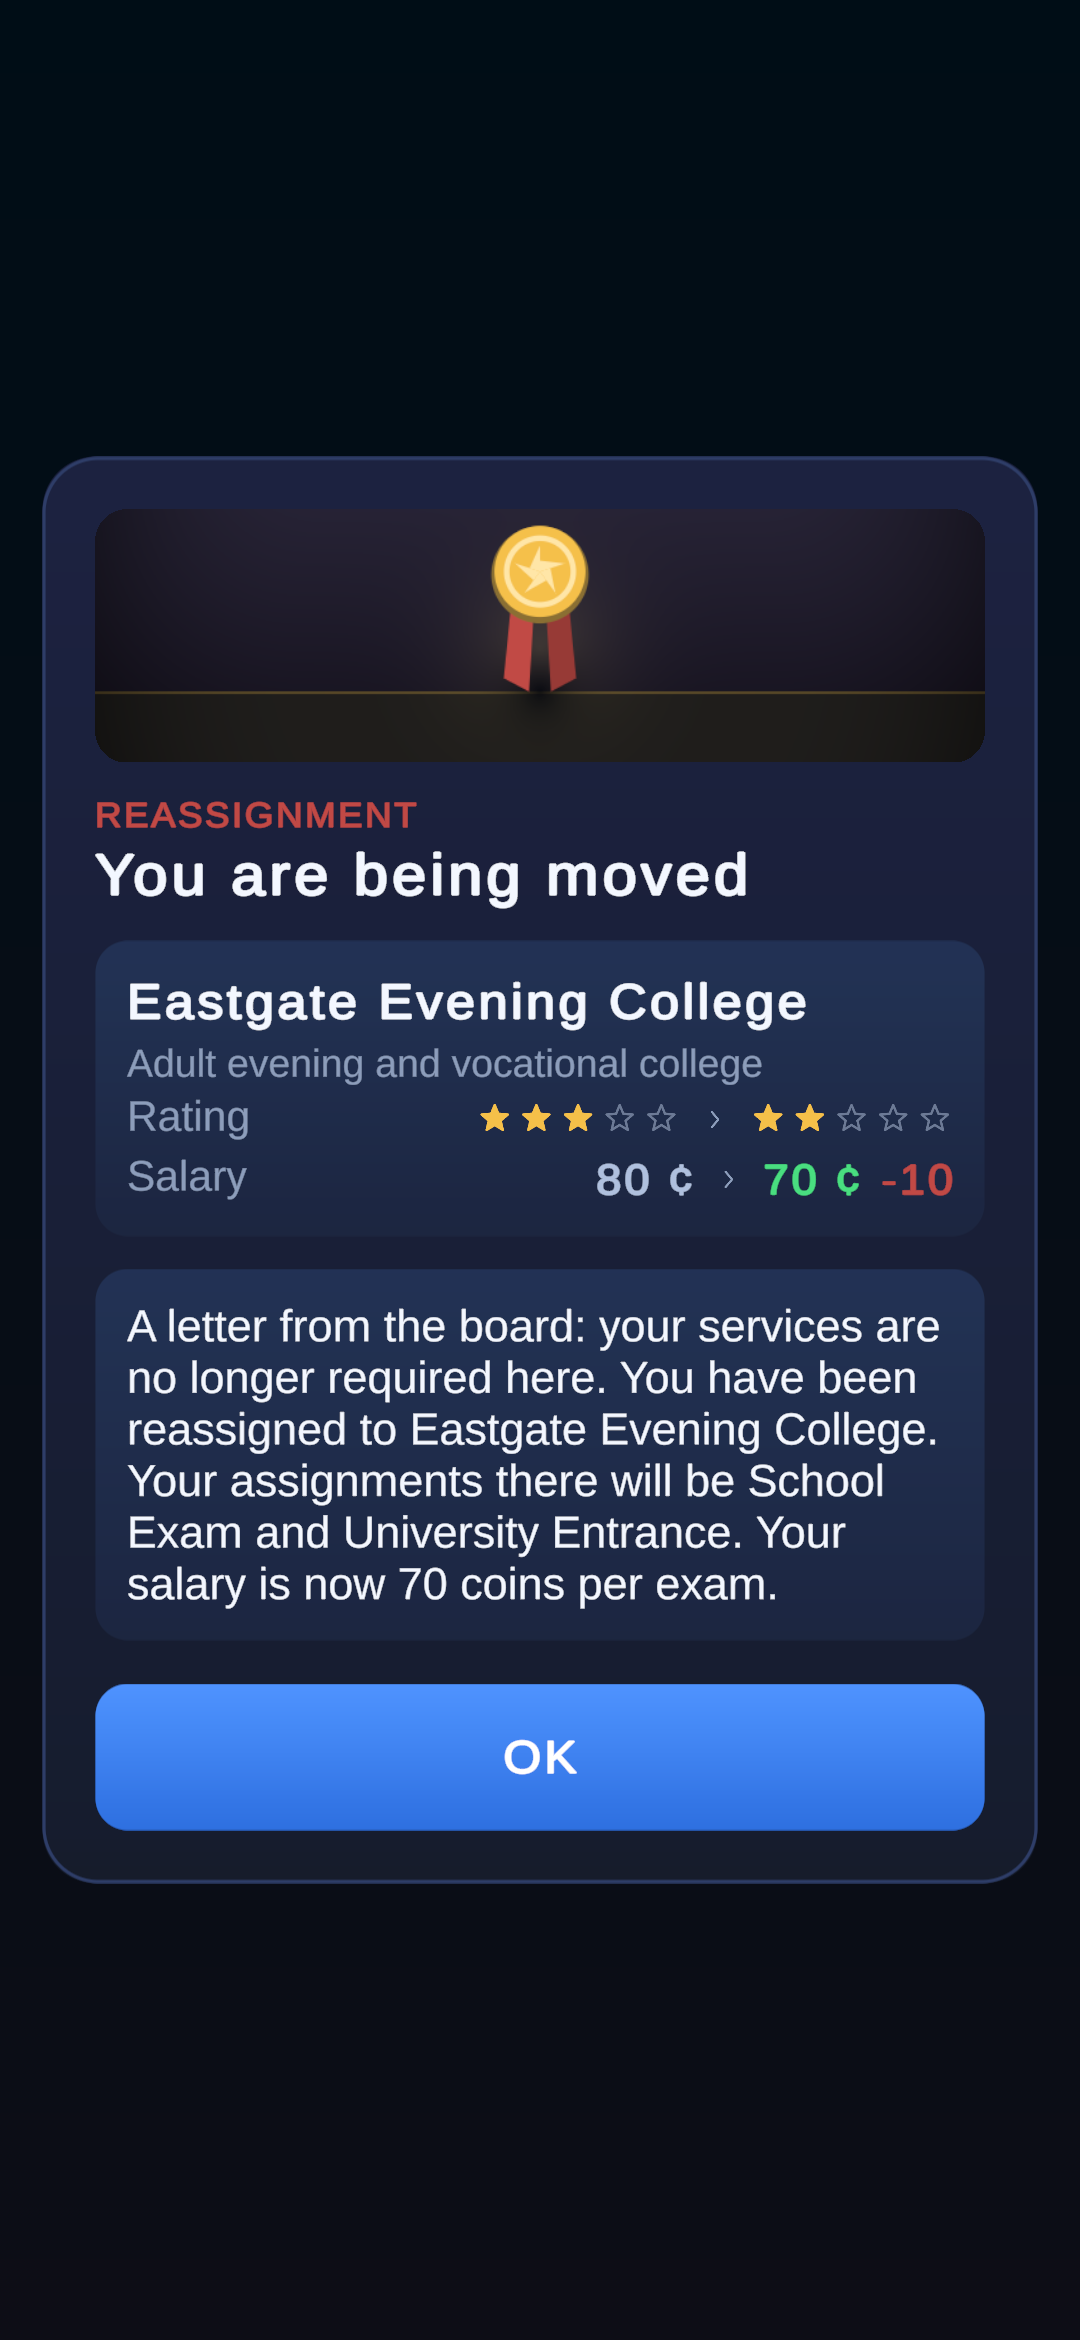
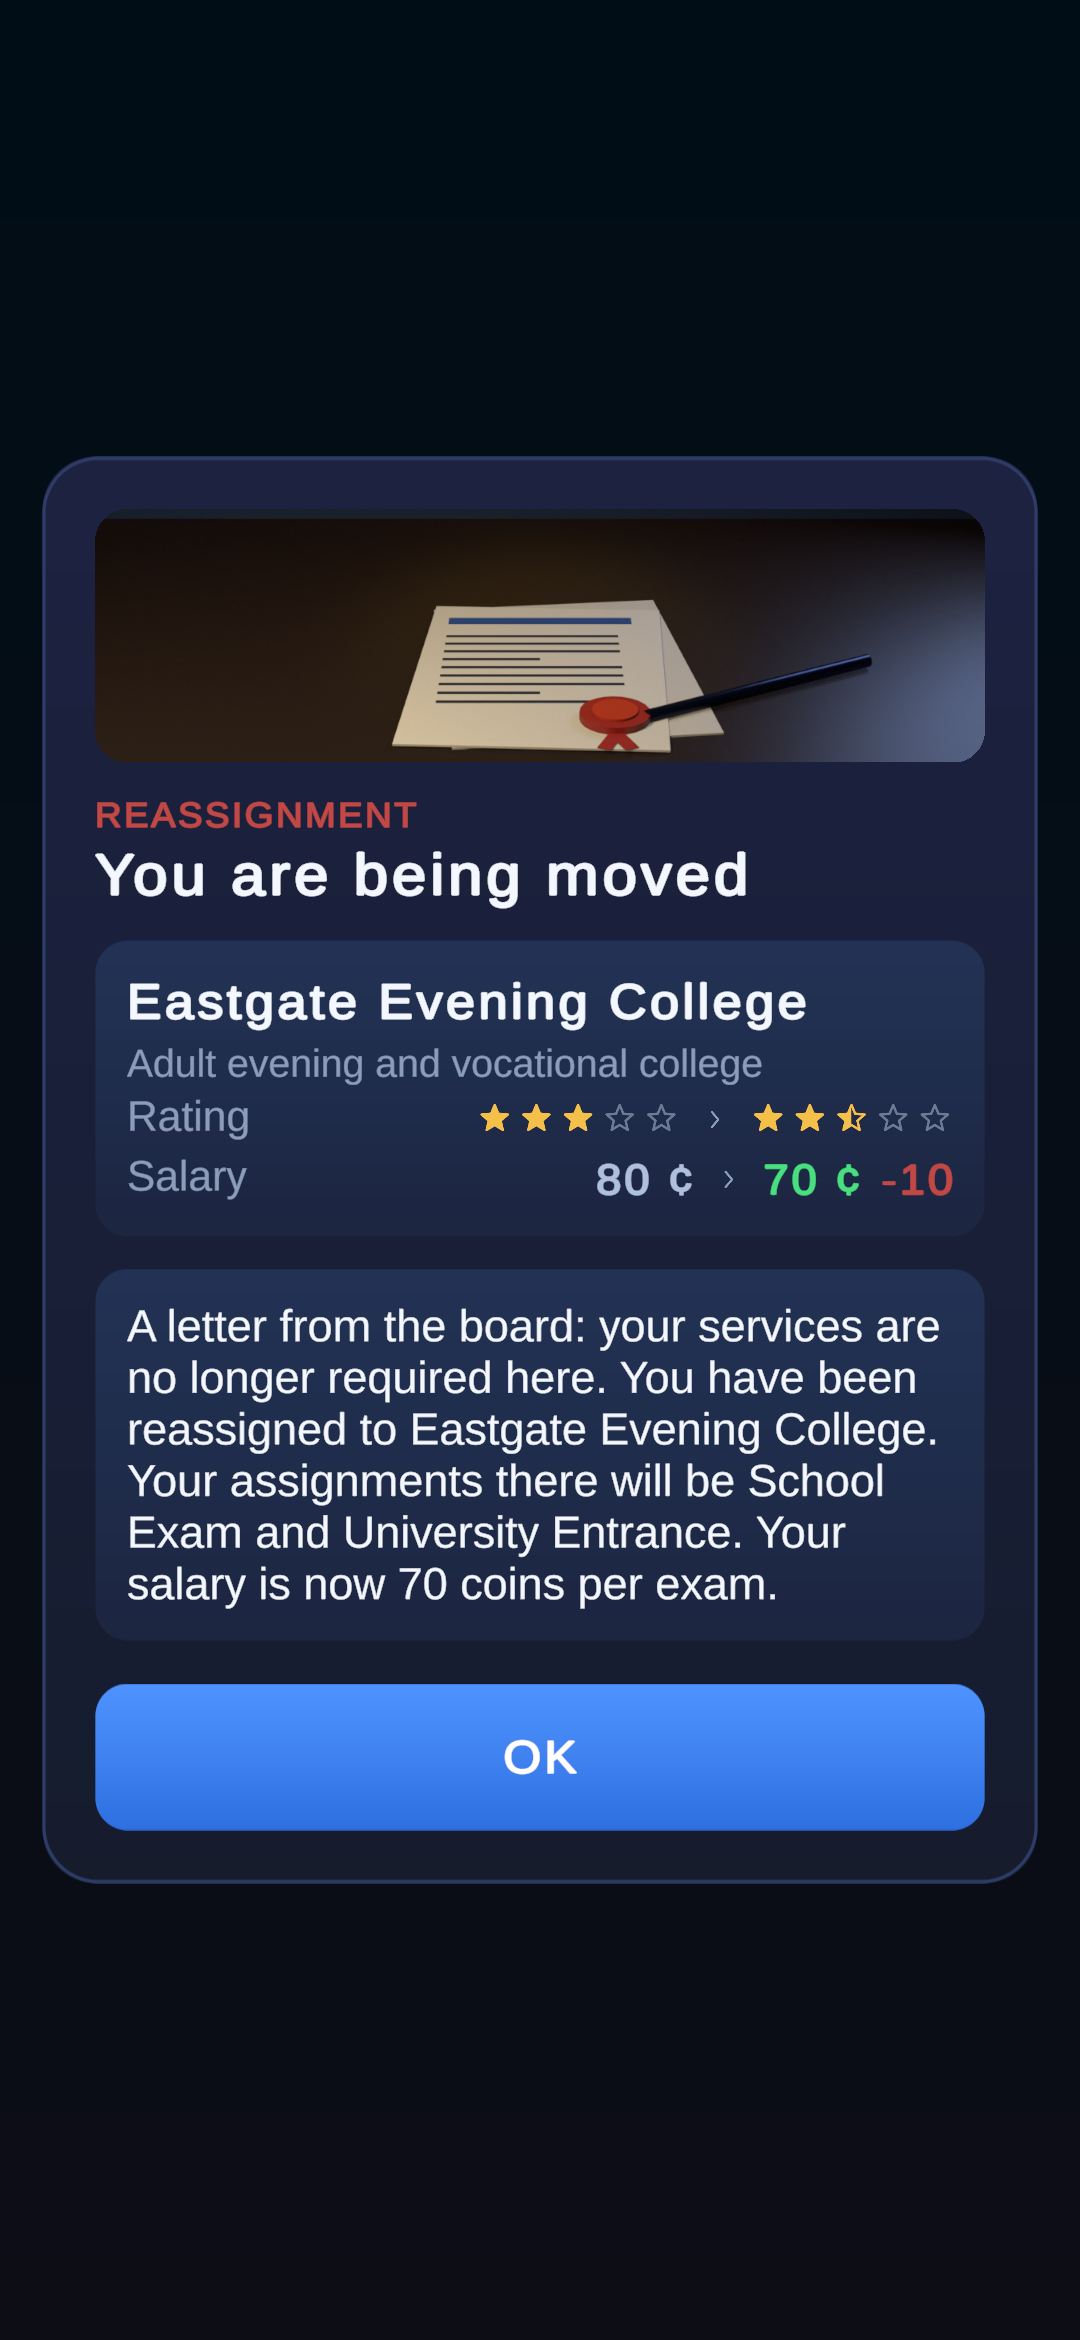
schools: Eastgate rated 2.5 stars, the step between Riverside and City High

Changed region(s): [[0.0917, 0.2184, 0.9167, 0.3432], [0.7639, 0.4679, 0.7944, 0.4991]]

diff --git a/schools/index.html b/schools/index.html
@@ -4,7 +4,7 @@
 <meta charset="utf-8">
 <meta name="viewport" content="width=device-width,initial-scale=1">
 <title>Schools and Offers</title>
-<meta name="description" content="Eight schools with fixed star ratings, offers that compare rating and salary, and the lower-rated school that pays more, in Exam Supervisor Simulator.">
+<meta name="description" content="Eight schools with fixed star ratings in half-star steps, offers that compare rating and salary, and the lower-rated school that pays more, in Exam Supervisor Simulator.">
 <link rel="preconnect" href="https://fonts.googleapis.com">
 <link rel="preconnect" href="https://fonts.gstatic.com" crossorigin>
 <link rel="stylesheet" href="https://fonts.googleapis.com/css2?family=Bricolage+Grotesque:opsz,wght@12..96,500;12..96,700&family=Source+Sans+3:wght@400;600&family=JetBrains+Mono:wght@500&display=swap">
@@ -80,7 +80,8 @@ tr.hi td { background: var(--accent-soft); }
     <span class="eyebrow">Exam Supervisor Simulator · M129</span>
     <h1>Schools and Offers</h1>
     <p class="lede">A career now runs through eight schools instead of three postings. Each school has a fixed star rating
-      that the player can see. A move between schools arrives as an offer, and the offer compares the school you hold
+      that the player can see, in half-star steps. The normal climb is Maple → Riverside → Eastgate → City High →
+      Kingsley. A move between schools arrives as an offer, and the offer compares the school you hold
       with the one offered, on both rating and salary. Usually one school writes. Sometimes two write at once, and then
       a better-rated school competes with a lower-rated one that pays more. The screenshots are from Play mode at a
       phone's portrait size (1080 × 2340).</p>
@@ -91,7 +92,8 @@ tr.hi td { background: var(--accent-soft); }
       <h2>The schools</h2>
       <p class="muted">A career starts at Maple at standing 40. "Offered at" is the standing a school asks for. "Lost
         below" is the standing under which you are reassigned. The two numbers are kept apart so that a career does not
-        bounce between schools. Brightpath, highlighted, is the lower-rated school that pays more.</p>
+        bounce between schools. Brightpath, highlighted, is the lower-rated school that pays more. Eastgate is rated two and a half stars: above
+        Riverside, below City High, and open at 47, before City High's 52.</p>
     </div>
     <div class="table-wrap">
       <table>
@@ -99,7 +101,7 @@ tr.hi td { background: var(--accent-soft); }
         <tbody>
           <tr><td>Maple Elementary School</td><td>Elementary</td><td class="stars">★☆☆☆☆</td><td class="num">50</td><td class="num">start</td><td>final warning, then dismissal</td></tr>
           <tr><td>Riverside Middle School</td><td>Middle school</td><td class="stars">★★☆☆☆</td><td class="num">60</td><td class="num">44</td><td class="num">34</td></tr>
-          <tr><td>Eastgate Evening College</td><td>Adult evening and vocational</td><td class="stars">★★☆☆☆</td><td class="num">70</td><td class="num">47</td><td class="num">37</td></tr>
+          <tr><td>Eastgate Evening College</td><td>Adult evening and vocational</td><td class="stars">★★½☆☆</td><td class="num">70</td><td class="num">47</td><td class="num">37</td></tr>
           <tr><td>City High School</td><td>High school</td><td class="stars">★★★☆☆</td><td class="num">80</td><td class="num">52</td><td class="num">40</td></tr>
           <tr class="hi"><td>Brightpath Prep Centre</td><td>Private exam-prep centre</td><td class="stars">★★☆☆☆</td><td class="num">120</td><td class="num">50</td><td class="num">40</td></tr>
           <tr><td>Kingsley Academy</td><td>Selective academy</td><td class="stars">★★★★☆</td><td class="num">140</td><td class="num">60</td><td class="num">48</td></tr>
@@ -128,7 +130,7 @@ tr.hi td { background: var(--accent-soft); }
             taking one can never leave the other open.</li>
           <li><b>The second school is rated lower and pays more.</b> It appears beside a promotion only when such a school
             is open to the player: City High (better rated) against Brightpath (better paid).</li>
-          <li><b>How often:</b> about one card in fourteen in a careful career.</li>
+          <li><b>How often:</b> about one card in seventeen in a careful career.</li>
           <li><b>The cost of the money is printed on the card,</b> not hidden in the rules.</li>
           <li><b>Without a banner.</b> The comparison stands in for the picture, so the three answers fit on the
             screen.</li>
@@ -136,6 +138,20 @@ tr.hi td { background: var(--accent-soft); }
       </div>
     </article>
 
+    <article class="moment">
+      <div class="shot"><img src="img/02b-eastgate-promotion.png" alt="Promotion card: A move up; Eastgate Evening College, rating 2 to 2.5 stars, salary 60 to 70 (+10); buttons Join Eastgate Evening College, Stay where you are" loading="lazy"></div>
+      <div class="text">
+        <h3>The half star: Riverside to Eastgate</h3>
+        <ul>
+          <li><b>Eastgate is a real rung.</b> At two and a half stars it is rated above Riverside, so a supervisor at
+            Riverside with standing 47 to 51 is offered it as a promotion. From Eastgate, City High is the next offer.</li>
+          <li><b>The half star is drawn from the same icon family:</b> the star outline, solid on its left half. Text
+            reads it as "2.5 of 5 stars".</li>
+          <li><b>Every careful career now passes through it:</b> 24 of 24, against 0 of 24 when it was rated two stars
+            like Riverside.</li>
+        </ul>
+      </div>
+    </article>
     <article class="moment">
       <div class="shot"><img src="img/03-money-offer.png" alt="Single offer card: More money elsewhere; Brightpath Prep Centre, rating 3 to 2 stars, salary 80 to 120 (+40); buttons Join Brightpath Prep Centre, Stay where you are" loading="lazy"></div>
       <div class="text">
@@ -152,7 +168,7 @@ tr.hi td { background: var(--accent-soft); }
     <div class="trio">
       <figure><img src="img/02-promotion.png" alt="Promotion card: Riverside Middle School, 1 to 2 stars, 50 to 60" loading="lazy"><figcaption>A move up: Maple to Riverside, one star to two.</figcaption></figure>
       <figure><img src="img/04-top-promotion.png" alt="Promotion card: National Examination Centre, 4 to 5 stars, 160 to 190" loading="lazy"><figcaption>The longest name, at the top: it wraps instead of being cut.</figcaption></figure>
-      <figure><img src="img/05-demotion.png" alt="Reassignment card: Eastgate Evening College, 3 to 2 stars, 80 to 70 (-10)" loading="lazy"><figcaption>A demotion uses the same comparison. The move goes to the best lower-rated school the standing can still hold.</figcaption></figure>
+      <figure><img src="img/05-demotion.png" alt="Reassignment card: Eastgate Evening College, 3 to 2.5 stars, 80 to 70 (-10)" loading="lazy"><figcaption>A demotion uses the same comparison. The move goes to the best lower-rated school the standing can still hold.</figcaption></figure>
     </div>
   </section>
 
@@ -165,12 +181,13 @@ tr.hi td { background: var(--accent-soft); }
     </div>
     <div class="trio">
       <figure><img src="img/06-hub-maple.png" alt="Hub hero: Assistant Supervisor, Maple Elementary School, 1 star, Elementary school" loading="lazy"><figcaption>Maple, where careers begin.</figcaption></figure>
+      <figure><img src="img/06-hub-vocational.png" alt="Hub hero: Assistant Supervisor, Eastgate Evening College, 2.5 stars, Adult evening and vocational college" loading="lazy"><figcaption>Eastgate, with its half star.</figcaption></figure>
       <figure><img src="img/06-hub-brightpath.png" alt="Hub hero: Supervisor, Brightpath Prep Centre, 2 stars, Private exam-prep centre" loading="lazy"><figcaption>Brightpath.</figcaption></figure>
       <figure><img src="img/06-hub-national.png" alt="Hub hero: Senior Supervisor, National Examination Centre, 5 stars" loading="lazy"><figcaption>National Examination Centre: the longest name fits on one line.</figcaption></figure>
     </div>
     <div class="trio">
-      <figure><img src="img/07-career-top.png" alt="Career tab: Supervisor, City High School, 3 of 5 stars; progression ring, 5 more to reach Kingsley Academy, 4 stars" loading="lazy"><figcaption>Career tab: your school's rating, and the next school's.</figcaption></figure>
-      <figure><img src="img/08-career-schools.png" alt="Career tab Schools card: every school with stars, standing required and salary; City High marked You are here" loading="lazy"><figcaption>Every school with its stars, the standing it asks for and its pay. Your school is marked.</figcaption></figure>
+      <figure><img src="img/07-career-top.png" alt="Career tab: Assistant Supervisor, Eastgate Evening College, 2.5 of 5 stars; progression ring, 3 more to reach City High School, 3 stars" loading="lazy"><figcaption>Career tab at Eastgate: your school's rating, half star included, and the next school's.</figcaption></figure>
+      <figure><img src="img/08-career-schools.png" alt="Career tab Schools card: every school with stars, standing required and salary; Eastgate, two and a half stars, marked You are here" loading="lazy"><figcaption>Every school with its stars, the standing it asks for and its pay. Your school is marked.</figcaption></figure>
     </div>
   </section>
 
@@ -182,21 +199,22 @@ tr.hi td { background: var(--accent-soft); }
         whenever it is offered, and an error-prone player.</p>
     </div>
     <div class="cards">
-      <div class="card"><span class="big">0.94</span><p>The correlation between standing and school rating within a career.
+      <div class="card"><span class="big">0.93</span><p>The correlation between standing and school rating within a career.
         A better-regarded supervisor works at a better-rated school.</p></div>
-      <div class="card"><span class="big">3.8 vs 4.0</span><p>The mean rating at exam 15 for the player who took the money,
+      <div class="card"><span class="big">2.9 vs 3.4</span><p>The mean rating at exam 10 for the player who took the money,
         against the one who took the better school. Taking the money slows the climb.</p></div>
-      <div class="card"><span class="big">7276 vs 7258</span><p>Coins after 50 exams for those two players. They end level:
+      <div class="card"><span class="big">6628 vs 6628</span><p>Coins after 50 exams for those two players. They end level:
         the money pays early, the slower climb gives it back, and neither choice dominates.</p></div>
-      <div class="card"><span class="big">24 / 24</span><p>Error-prone careers dismissed. That is the same as at M126 from the
-        old start: the bottom school keeps the final warning and dismissal unchanged.</p></div>
+      <div class="card"><span class="big">24 / 24</span><p>Careful careers that work at Eastgate on the way up, about two exams
+        each. Before the half star it was 0 / 24. City High (exam 6) and Kingsley (exam 11) are reached on the same exams
+        as before, and coins are level (6606 → 6628).</p></div>
     </div>
     <div class="table-wrap">
       <table>
         <thead><tr><th>Careful player, takes the better school</th><th>Exam 5</th><th>10</th><th>15</th><th>20</th><th>30</th></tr></thead>
         <tbody>
-          <tr><td>Median standing</td><td class="num">50</td><td class="num">59</td><td class="num">68</td><td class="num">78</td><td class="num">99</td></tr>
-          <tr><td>Mean school rating</td><td class="num">2.2</td><td class="num">3.4</td><td class="num">4.0</td><td class="num">4.1</td><td class="num">4.9</td></tr>
+          <tr><td>Median standing</td><td class="num">50</td><td class="num">58</td><td class="num">66</td><td class="num">74</td><td class="num">92</td></tr>
+          <tr><td>Mean school rating</td><td class="num">2.5</td><td class="num">3.4</td><td class="num">4.0</td><td class="num">4.1</td><td class="num">4.7</td></tr>
         </tbody>
       </table>
     </div>
@@ -209,11 +227,14 @@ tr.hi td { background: var(--accent-soft); }
         not reinstalled, because the phone is shared with other sessions.</li>
       <li><b>The hub's banner is crowded.</b> With the star line added, the rank sits lower and overlaps the steps of the
         colonnade building. It is still readable, but the art might want more room.</li>
-      <li><b>Eastgate Evening College is rarely visited by a careful player.</b> Riverside's 44 leads straight on to City
-        High's 52. Eastgate is mostly a place a reassignment lands, or where an older save that was at the Vocational
-        Annex now loads.</li>
-      <li><b>The error-prone player is still always dismissed</b> (M126). That is unchanged and remains its own open
-        question.</li>
+      <li><b>The top comes a little later on these seeds.</b> With the Eastgate step, mean rating at exam 30 is 4.7
+        against 4.9, and careers spend less time at National. City High and Kingsley are reached on the same exams, so
+        this looks like career-to-career chaos rather than the extra rung. It has not been replicated on a second seed
+        block.</li>
+      <li><b>Eastgate keeps the two-star room.</b> Rooms are sized by whole stars, so the approved desk counts are
+        unchanged (7 on a phone, 9 on a tablet).</li>
+      <li><b>The error-prone player is still nearly always dismissed</b> (20 of 24, M126). That is unchanged and remains
+        its own open question.</li>
     </ul>
   </section>
 </div>
